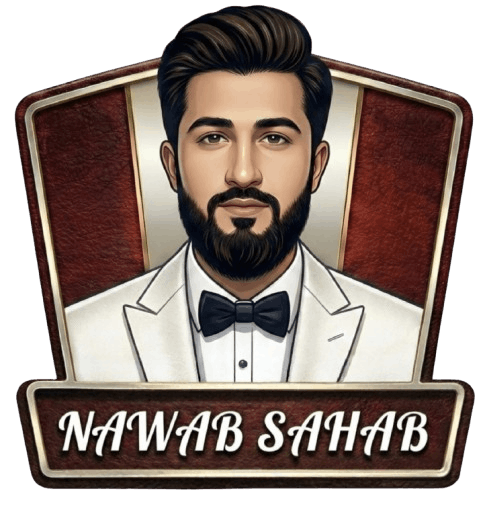
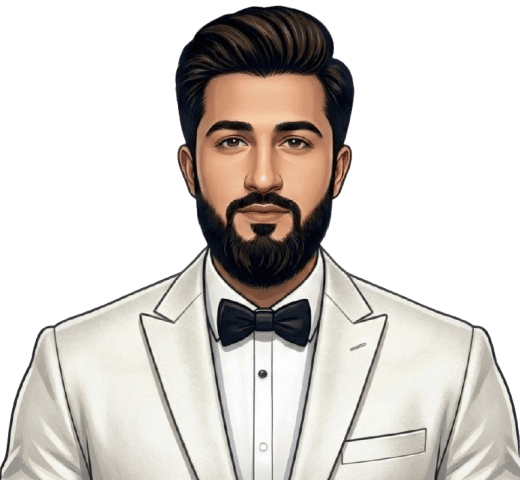
update founder image

diff --git a/src/components/FounderSection.jsx b/src/components/FounderSection.jsx
@@ -15,7 +15,7 @@ const FounderSection = () => {
 
                     {/* Founder Image Container */}
                     <div className="relative flex justify-center mb-6">
-                        <div className="relative animate-float">
+                        <div className="relative">
                             <div className="absolute -inset-0.5 bg-amber-500/20 rounded-2xl blur-3xl scale-105"></div>
                             <img
                                 src="/founder.png"